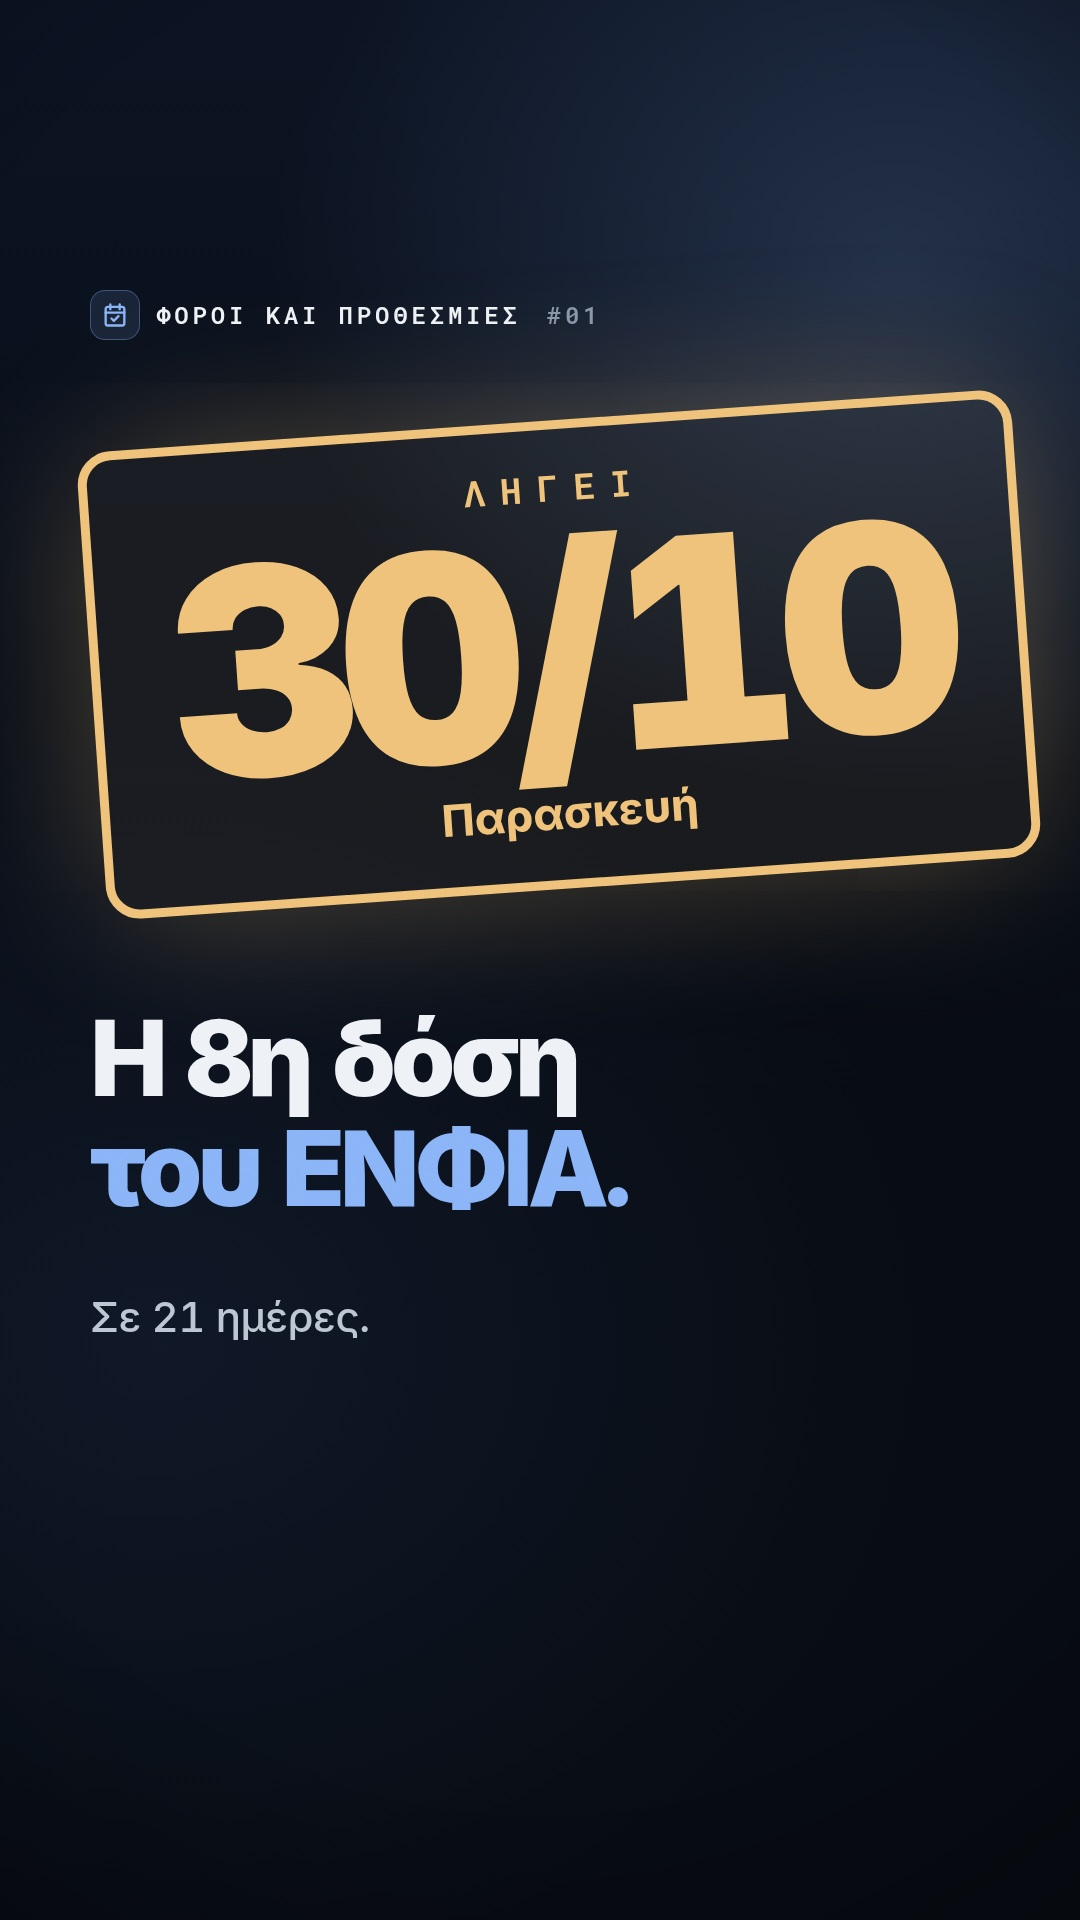
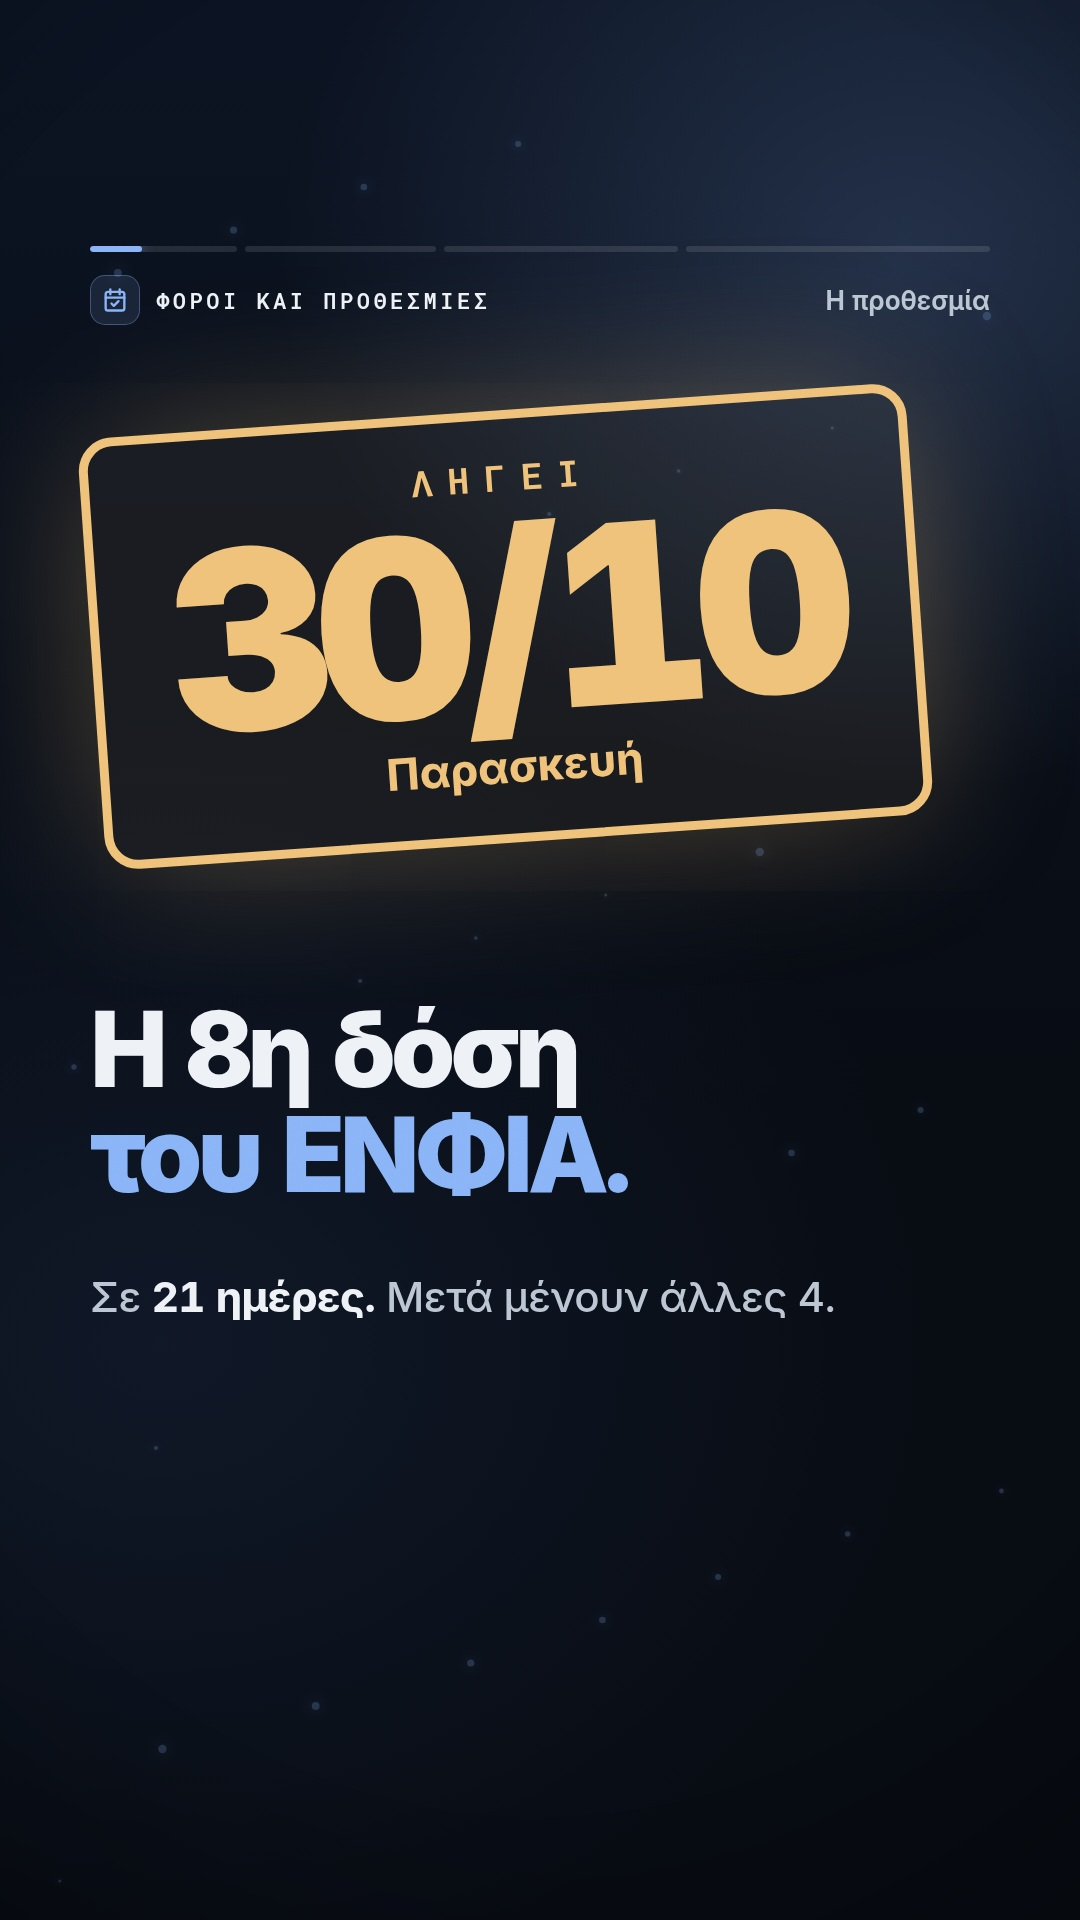
Reel βραχυχρόνιων: κεφάλαια και λεζάντα του ενός λεπτού, νέο εξώφυλλο φόρων
Claude-Session: https://claude.ai/code/session_01FciDzM5oCHC6crgCfFdPE1

diff --git a/docs/marketing/instagram/seires/vraxy-e01/reel/README.md b/docs/marketing/instagram/seires/vraxy-e01/reel/README.md
@@ -1,11 +1,21 @@
-# Reel: Βραχυχρόνια #01 · Βραχυχρόνια ή μακροχρόνια;
+# Reel: Βραχυχρόνια · Βραχυχρόνια ή μακροχρόνια;
 
 Παράγεται από το `npx tsx scripts/marketing/reelSeires.ts`. Το βίντεο είναι στο
 `docs/marketing/reels/seires-vraxy-e01/vraxy-e01.mp4` (έξω από το git) και το εξώφυλλο εδώ, `cover.jpg`.
 
 **Πότε:** Τετάρτη 7 Οκτωβρίου, το βράδυ (19:00-21:00), μαζί με το carousel της ίδιας μέρας.
-**Διάρκεια:** 22 δευτερόλεπτα, με πρωτότυπη μουσική. Ανεβαίνει με τον ήχο του.
+**Διάρκεια:** 1:04, με πρωτότυπη μουσική. Ανεβαίνει με τον ήχο του.
 **Σύνδεσμος (βιογραφικό ή μήνυμα):** https://properwise.gr/vraxyxronia-i-makroxronia?utm_source=instagram&utm_medium=reel&utm_campaign=vraxy-e01
+
+## Τα κεφάλαια
+
+Ό,τι λένε τα stories του θέματος, σε μία ιστορία. Η μπάρα πάνω δείχνει τα κεφάλαια.
+
+- 0:00 Το ερώτημα
+- 0:08 Μακροχρόνια
+- 0:18 Βραχυχρόνια
+- 0:35 Η πληρότητα κρίνει
+- 0:46 Τα δικά σου
 
 ## Πριν τη δημοσίευση
 
@@ -13,13 +23,18 @@
 - Πρώτα ως «δοκιμαστικό reel» (trial reel), σε όσους δεν ακολουθούν. Αν κρατήσει, κοινοποίηση και στους ακολούθους.
 - Αυτόματοι υπότιτλοι: όχι. Κάθε φράση είναι ήδη γραμμένη στην εικόνα.
 - Απαντήσεις στα σχόλια μέσα στην πρώτη ώρα· όποιος γράψει «ΥΠΟΛΟΓΙΣΤΗΣ» παίρνει τον σύνδεσμο σε μήνυμα.
+- Μετά από 48 ώρες: μέσος χρόνος θέασης και αποστολές ανά προβολή. Αν οι περισσότεροι φεύγουν πριν από το πρώτο κεφάλαιο, το αγκίστρι θέλει αλλαγή.
 
 ## Λεζάντα
 
 ```
-Βραχυχρόνια ή μακροχρόνια; Ποιο είδος μίσθωσης αποφέρει περισσότερα κρίνεται από την πληρότητα.
+Βραχυχρόνια ή μακροχρόνια; Ποιο είδος μίσθωσης αποφέρει περισσότερα κρίνεται από ένα νούμερο: την πληρότητα.
 
-Το ίδιο διαμέρισμα των 75 τ.μ.: με 700€ τον μήνα, η μακροχρόνια αποφέρει 7.203€ καθαρά τον χρόνο. Με 80€ τη διανυκτέρευση και πληρότητα 60%, η βραχυχρόνια αποφέρει 8.223€. Το όριο είναι το 52%.
+Το ίδιο διαμέρισμα των 75 τ.μ. Με 700€ τον μήνα, η μακροχρόνια αποφέρει 7.203€ καθαρά τον χρόνο: φεύγει μόνο ο φόρος.
+
+Με 80€ τη νύχτα και πληρότητα 60%, η βραχυχρόνια φέρνει διπλάσια έσοδα, 17.520€. Αφαιρείς προμήθεια πλατφόρμας 2.628€, καθαριότητα και πάγια 3.708€, φόρο 2.961€ και μένουν 8.223€. Το τέλος ανθεκτικότητας (1.205€) το πληρώνει ο επισκέπτης· δεν είναι έσοδό σου.
+
+Το όριο είναι το 52%: κάτω από 192 νύχτες τον χρόνο, αποφέρει περισσότερα η μακροχρόνια.
 
 Βάλε τα δικά σου δεδομένα στον δωρεάν υπολογιστή: γράψε «ΥΠΟΛΟΓΙΣΤΗΣ» στα σχόλια και σου στέλνουμε τον σύνδεσμο. Είναι και στο βιογραφικό.
 
